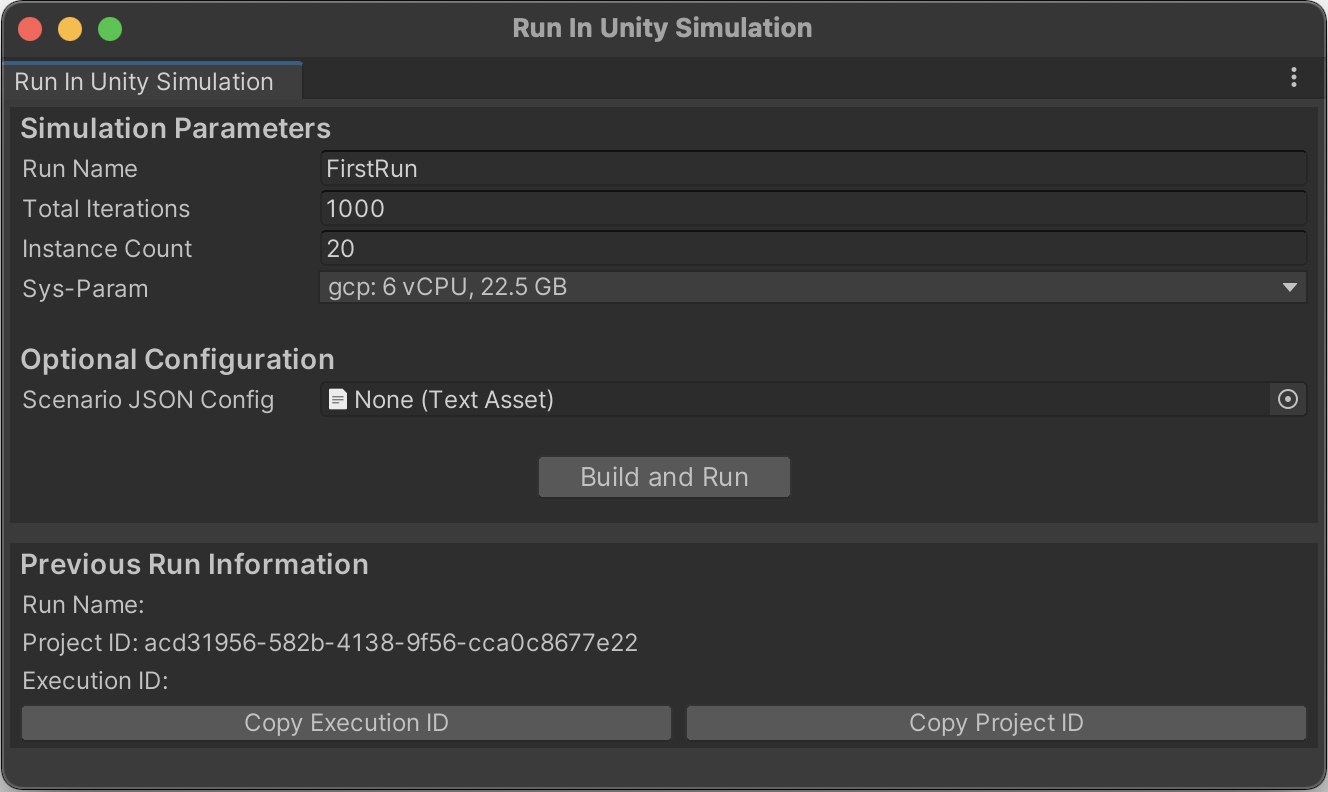
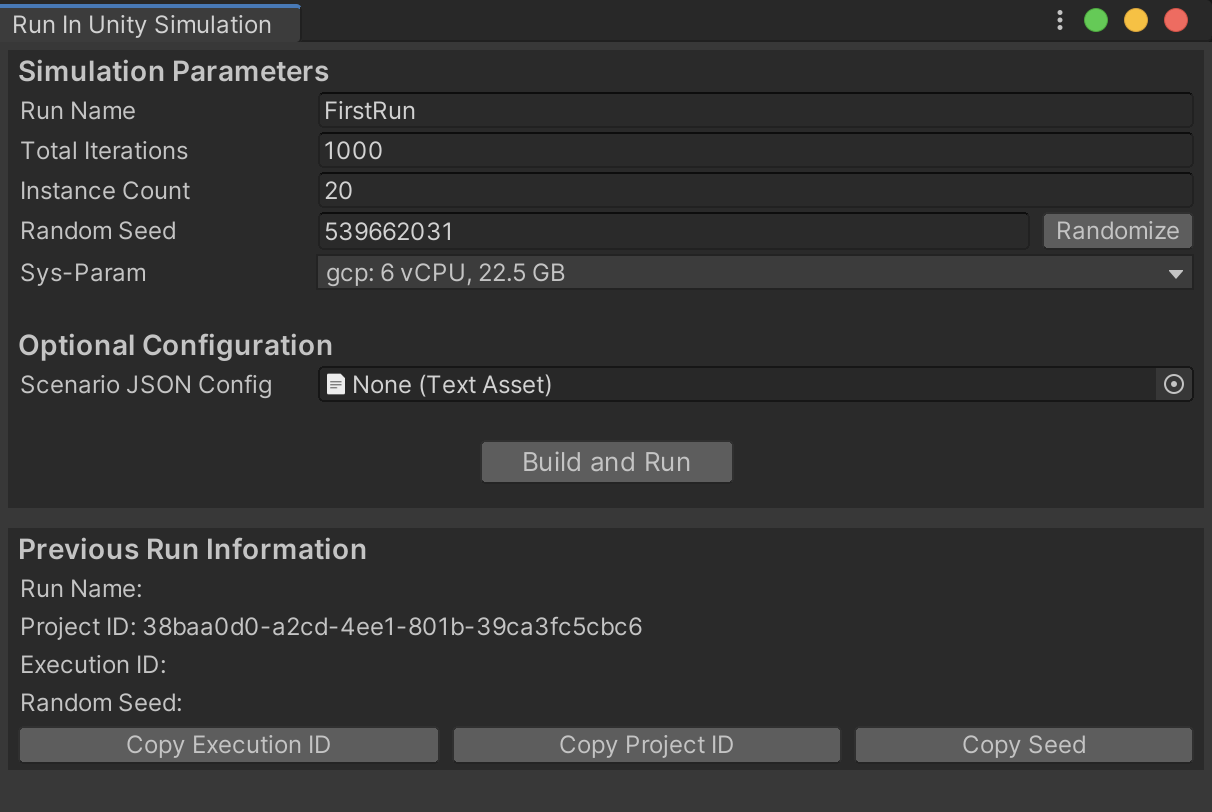
updated docs for 0.8.0.preview.4

Changed region(s): [[0.0, 0.0, 1.0, 1.0], [0.3969, 0.5455, 0.6106, 0.6364]]

diff --git a/com.unity.perception/Documentation~/Tutorial/Phase3.md b/com.unity.perception/Documentation~/Tutorial/Phase3.md
@@ -77,7 +77,8 @@ In order to make sure our builds are compatible with Unity Simulation, we need t
 
 Here, you can specify a name for the run, the number of Iterations the Scenario will execute for, and the number of Instances (number of nodes the work will be distributed across) for the run. This window automatically picks the currently active Scene and Scenario to run in Unity Simulation.
 
-* **:green_circle: Action**: Name your run `FirstRun`, set the number of Iterations to `1000`, and Instances to `20`. 
+* **:green_circle: Action**: Name your run `FirstRun`, set the number of Iterations to `1000`, and Instances to `20`.
+* **:green_circle: Action**: Click `Randomize` to generate a seed for your runs.
 * **:green_circle: Action**: Click _**Build and Run**_.
 
 > :information_source: You can ignore the ***Optional Configuration*** section for now. This is useful if you plan to specify a configuration for your Scenario (including the Randomizers) that will override the values set in the Scenario UI, in Unity Simulation. To generate a configuration, you can click on the ***Generate JSON Config*** button provided in the ***Inspector*** view of Scenario components.

diff --git a/README.md b/README.md
@@ -7,7 +7,7 @@
 [![license badge](https://img.shields.io/badge/license-Apache--2.0-green.svg)](LICENSE.md)
 
 <img src="https://img.shields.io/badge/unity-2019.4-green.svg?style=flat-square" alt="unity 2019.4">
-<img src="https://img.shields.io/badge/unity-2020.2-green.svg?style=flat-square" alt="unity 2020.2">
+<img src="https://img.shields.io/badge/unity-2020.3-green.svg?style=flat-square" alt="unity 2020.3">
 
 > com.unity.perception is in active development. Its features and API are subject to significant change as development progresses.
 
